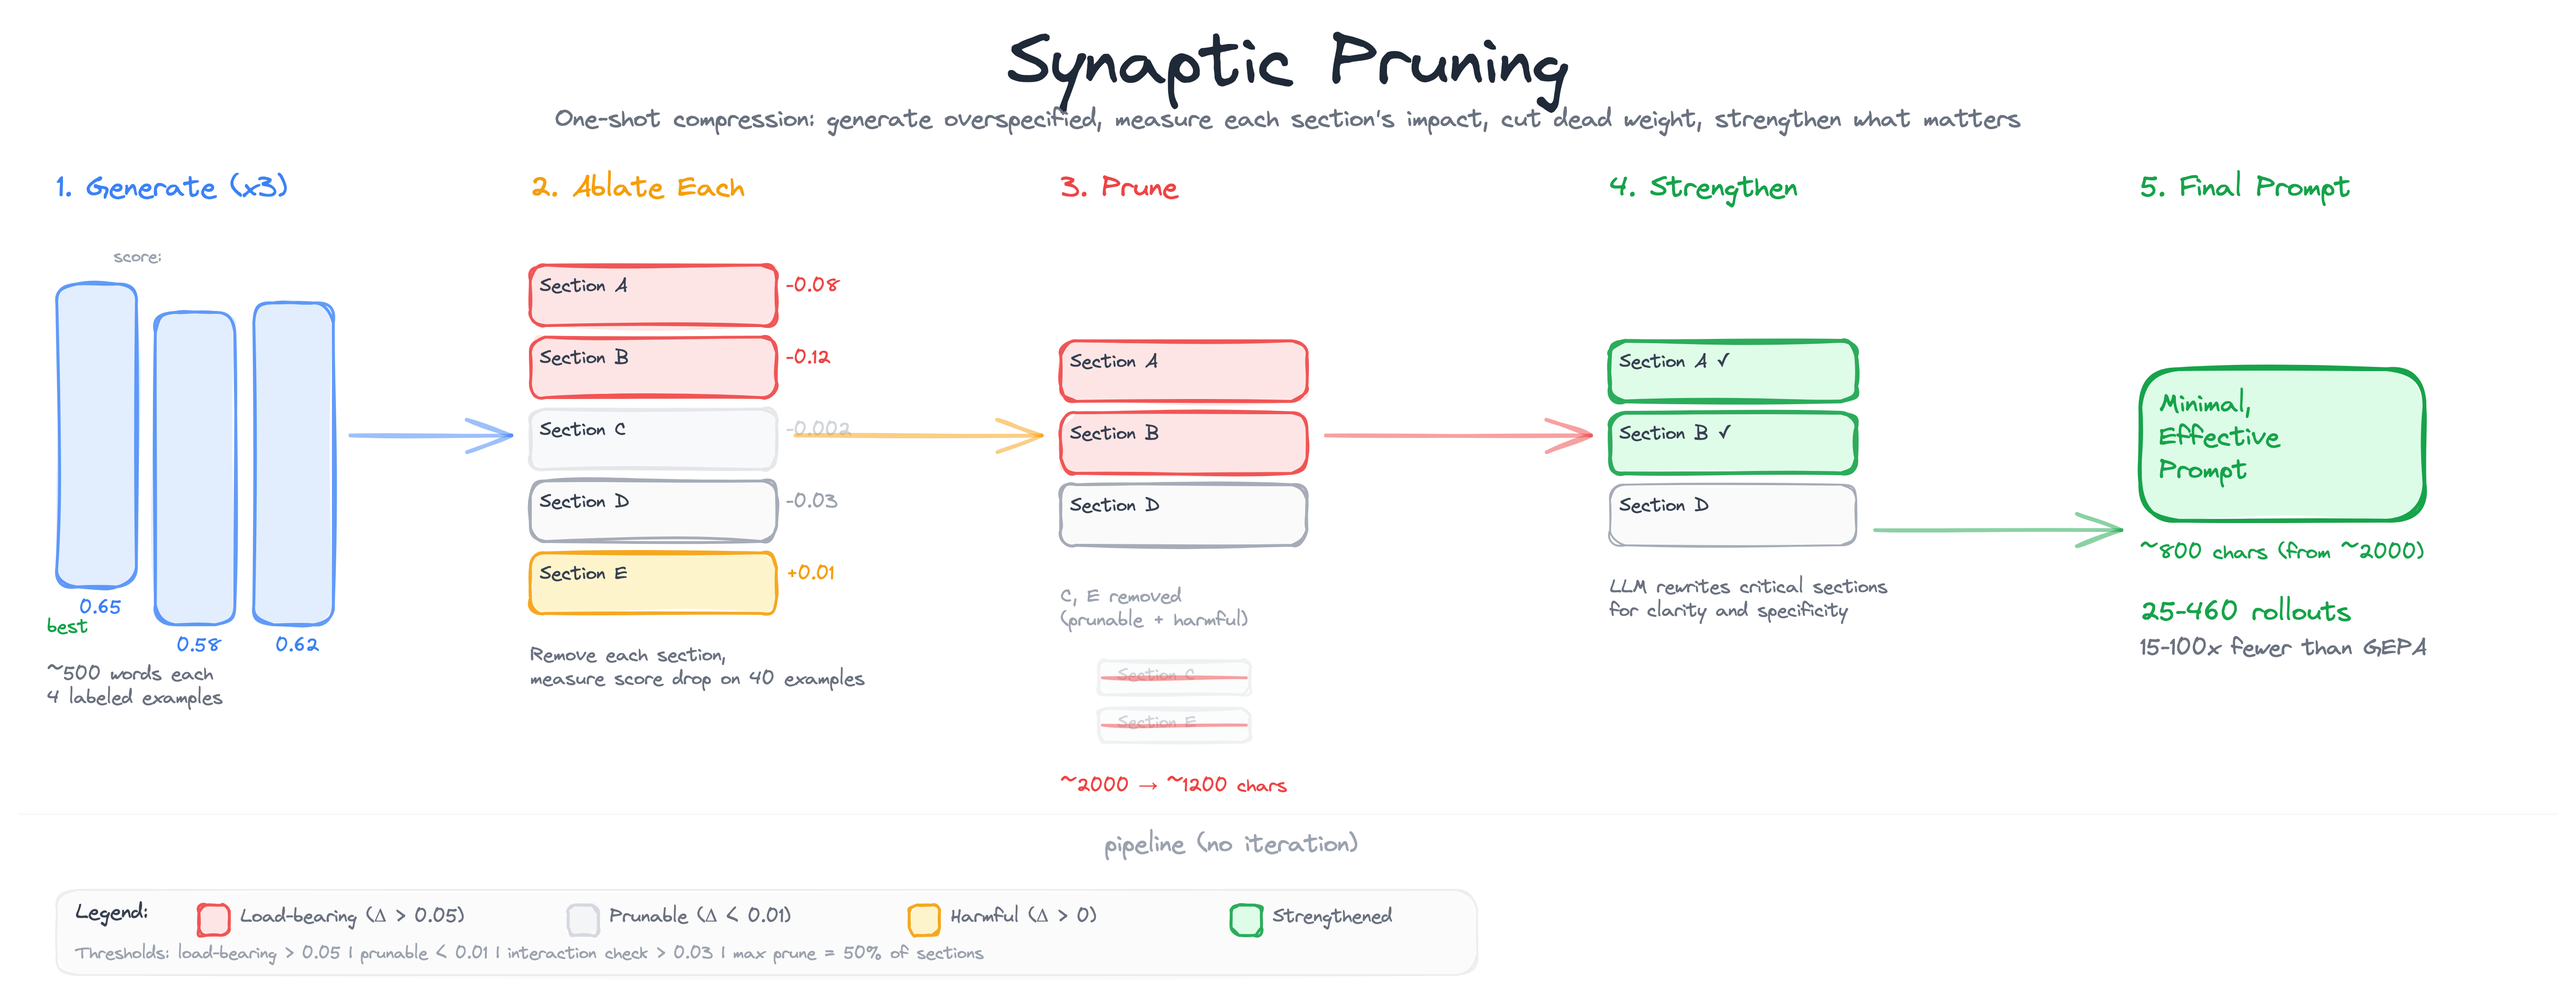
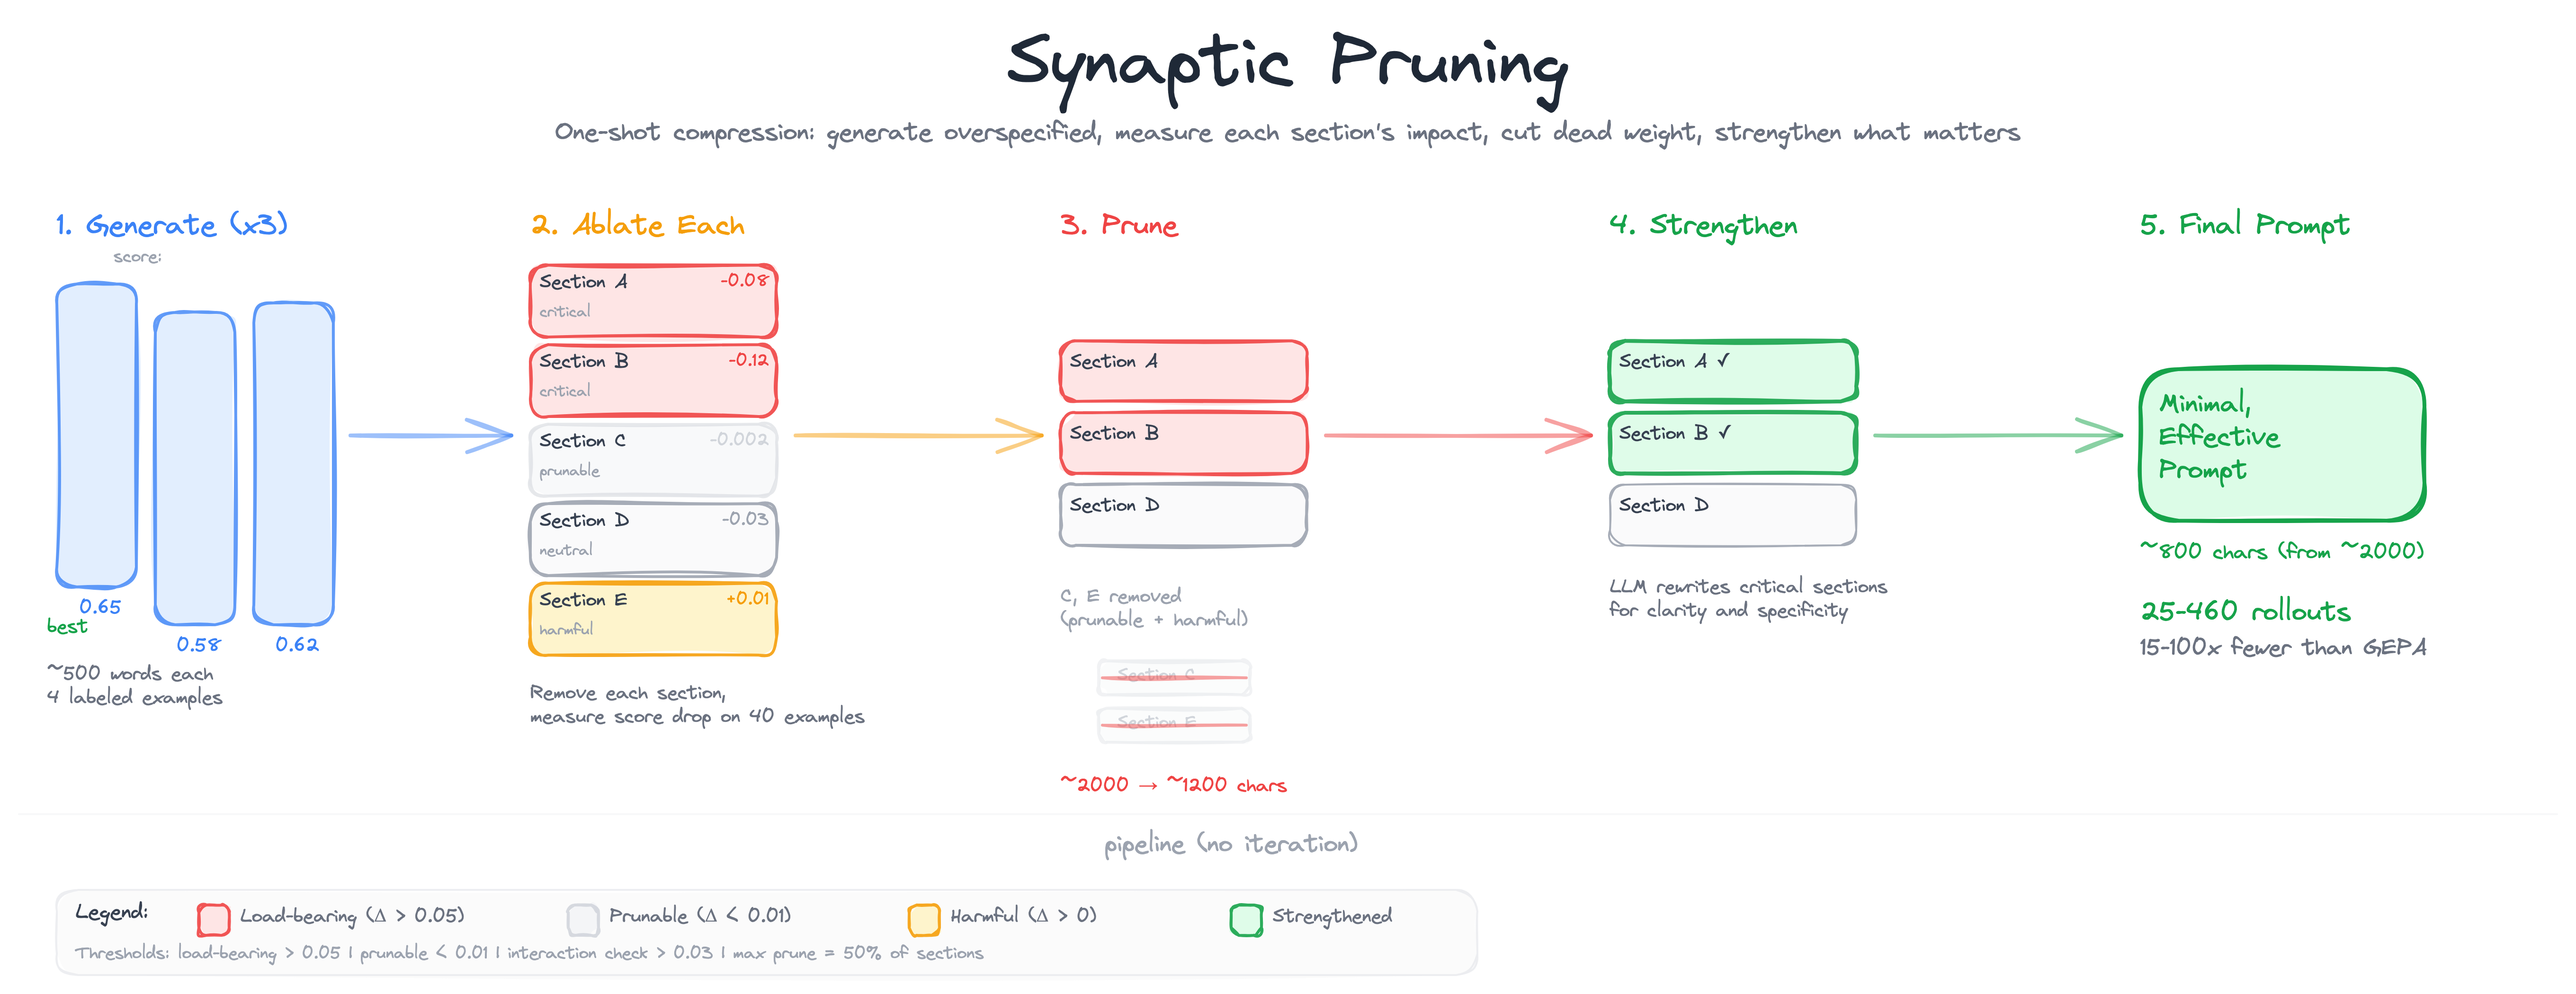
Polish synaptic pruning diagram — labels inside blocks, consistent arrows
Fixes:
- Delta scores and kind labels moved INSIDE section blocks (not beside
  them where they collided with arrows)
- All horizontal arrows at same y-level
- Subtitle gap increased (30px from section headers)
- Blocks taller (38px) for two-line content

diff --git a/examples/gepa_synaptic_pruning_tree.py b/examples/gepa_synaptic_pruning_tree.py
@@ -90,7 +90,7 @@ BLOCK_W = 130  # prompt block width
 
 elements.append(txt("title", 280, 20, 900, 42,
     "Synaptic Pruning", size=38, color="#1F2937", align="center"))
-elements.append(txt("sub", 180, 65, 1100, 18,
+elements.append(txt("sub", 180, 72, 1100, 18,
     "One-shot compression: generate overspecified, measure each section's impact, cut dead weight, strengthen what matters",
     size=13, color="#6B7280", align="center"))
 
@@ -105,7 +105,7 @@ stages = [
     ("5. Final Prompt", GREEN_S),
 ]
 for i, (label, color) in enumerate(stages):
-    elements.append(txt(f"sh_{i}", STAGE_X[i], 100, 180, 20,
+    elements.append(txt(f"sh_{i}", STAGE_X[i], 120, 180, 20,
         label, size=15, color=color))
 
 
@@ -152,16 +152,18 @@ sections = [
 
 sy = CY - 90
 for i, (name, delta, kind, fill, stroke) in enumerate(sections):
-    bh = 32
+    bh = 38
     elements.append(rect(f"sec_{i}", ax, sy, BLOCK_W, bh, fill, stroke, 90 if kind != "prunable" else 55))
-    elements.append(txt(f"secn_{i}", ax+5, sy+5, 80, 14,
+    elements.append(txt(f"secn_{i}", ax+5, sy+3, 80, 14,
         name, size=10, color="#374151"))
-    # Delta score
+    # Delta score — inside block, right-aligned
     delta_str = f"{delta:+.3f}" if abs(delta) < 0.01 else f"{delta:+.2f}"
-    elements.append(txt(f"secd_{i}", ax+BLOCK_W+5, sy+5, 80, 14,
-        delta_str, size=10, color=stroke))
-    # Kind conveyed by color — legend explains
-    sy += bh + 6
+    elements.append(txt(f"secd_{i}", ax+BLOCK_W-48, sy+3, 44, 14,
+        delta_str, size=9, color=stroke, align="right"))
+    # Kind label — inside block, under the name
+    elements.append(txt(f"seck_{i}", ax+5, sy+20, 70, 12,
+        kind, size=8, color="#9CA3AF"))
+    sy += bh + 4
 
 elements.append(txt("abl_note", ax, sy+10, 180, 25,
     "Remove each section,\nmeasure score drop on 40 examples",
@@ -254,9 +256,8 @@ elements.append(txt("eff2", fx, CY+105, 200, 16,
 elements.append(arr("sa_0", STAGE_X[0]+155, CY, [[0,0],[STAGE_X[1]-STAGE_X[0]-165, 0]], BLUE_S, 2, 50))
 elements.append(arr("sa_1", STAGE_X[1]+BLOCK_W+10, CY, [[0,0],[STAGE_X[2]-STAGE_X[1]-BLOCK_W-20, 0]], ORANGE_S, 2, 50))
 elements.append(arr("sa_2", STAGE_X[2]+BLOCK_W+10, CY, [[0,0],[STAGE_X[3]-STAGE_X[2]-BLOCK_W-20, 0]], RED_S, 2, 50))
-# Stage 4→5: route BELOW the strengthened labels
-arr_4_y = CY + 50
-elements.append(arr("sa_3", STAGE_X[3]+BLOCK_W+10, arr_4_y, [[0,0],[STAGE_X[4]-STAGE_X[3]-BLOCK_W-20, 0]], GREEN_S, 2, 50))
+# Stage 4→5: same height as other arrows
+elements.append(arr("sa_3", STAGE_X[3]+BLOCK_W+10, CY, [[0,0],[STAGE_X[4]-STAGE_X[3]-BLOCK_W-20, 0]], GREEN_S, 2, 50))
 
 
 # ── Pipeline label at bottom ─────────────────────────────────────
